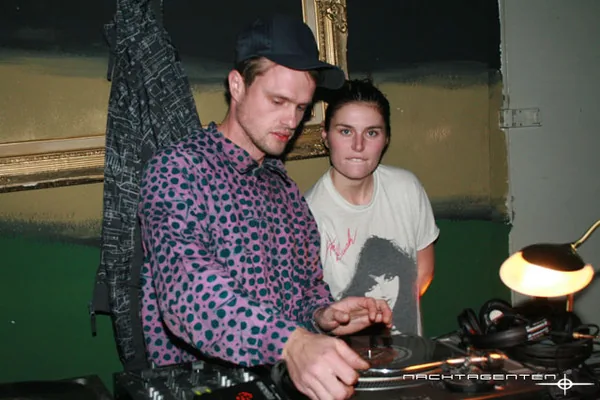
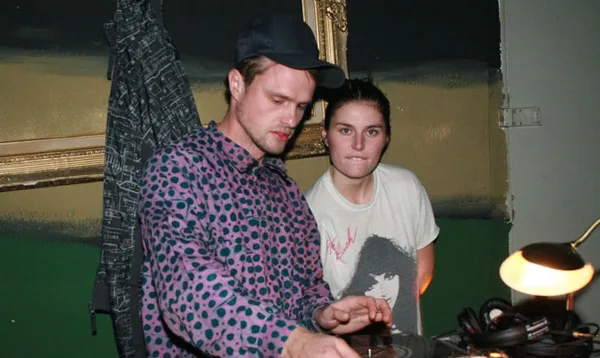
The Afterhour: Foto ohne Wasserzeichen

diff --git a/label.html b/label.html
@@ -202,7 +202,7 @@
   </dialog>
 
   <script type="application/json" id="release-data">{"obruni-antwi":{"id":"obruni-antwi","kind":"artist","name":"Obruni Antwi","role":"Cover-Künstlerin","roleEn":"Cover artist","bio":["Obruni Antwi ist freie Künstlerin aus Berlin, geboren in Schwerin und Mitglied im VbK Berlin. Ihre Laufbahn begann in der DDR als Textildesignerin, außerdem war sie Leiterin einer Werkstatt. Aus der DDR kam sie nach West-Berlin und arbeitet seither als freie Künstlerin. Sie malt und arbeitet in vielen Techniken.","Alle Cover auf dieser Seite stammen von ihr. Sie entstanden zwischen 2011 und 2014 mit Microsoft Paint, in ihrer digitalen Phase. 4Spur Records bedankt sich bei der Künstlerin, dass sie ihre Arbeiten als Cover zur Verfügung gestellt hat."],"bioEn":["Obruni Antwi is a freelance artist from Berlin, born in Schwerin and a member of VbK Berlin. Her career began in the GDR as a textile designer, and she also ran a workshop. She came from the GDR to West Berlin and has worked as a freelance artist ever since. She paints and works in many techniques.","All covers on this page are by her. They were made between 2011 and 2014 with Microsoft Paint, during her digital phase. 4Spur Records thanks the artist for making her works available as covers."],"links":[["X","https://x.com/ObruniAntwi"],["oncyber","https://oncyber.io/rubadubsundays"]],"image":"img/artists/obruni-antwi-full-960.webp","imageSmall":"img/artists/obruni-antwi-full-480.webp"},"7018769":{"id":"7018769","title":"AUGENLIED","artist":"Ete & Ali","date":"2026-09-13","format":"Single","cover":[320,640,960,1440],"links":{"apple":"https://music.apple.com/de/album/augenlied-single/6810388041","spotify":"https://open.spotify.com/album/1AOdwvLBbswHBB9LYHOUOH"},"art":"#oban_1204242","cline":"2026 4Spur Records","description":"Ein dunkles Dub-Stück, digital produziert mit MPC, 808 und Juno, getragen von weiten Delay-Räumen.","descriptionEn":"A dark dub piece, produced digitally with MPC, 808 and Juno, carried by wide delay spaces."},"7004136":{"id":"7004136","title":"Olga Mein Herz","artist":"KiKi4EWA","date":"2026-09-09","format":"Single","cover":[320,640,960,1440],"links":{"apple":"https://music.apple.com/de/album/olga-mein-herz-single/6807667693","spotify":"https://open.spotify.com/album/649LD7GoTYvbrzCXUDzc3d"},"art":"#oban_12022310","cline":"2026 4Spur Records","description":"Zwei Mbira-Stücke, die wie ein Gedicht als Haiku geschrieben sind.","descriptionEn":"Two mbira pieces written as a haiku, like a poem."},"6583184":{"id":"6583184","title":"NK44","artist":"KiKi4EWA","feat":"KingAli 030","date":"2026-07-19","format":"Single","cover":[320,640,960,1440],"links":{"apple":"https://music.apple.com/de/album/nk44-feat-kingali-030-single/6783938315","spotify":"https://open.spotify.com/album/6e6O2id7xkwFCSh92RGHrP"},"art":"#oban_1111032","cline":"2026 4Spur Records","description":"NK44 steht für Neukölln 44, den Ort, an dem die Stücke entstanden sind. Pannier, Donau und Ecke Reuter sind die drei Straßen, die dort zusammenkommen; die drei Tracks greifen sie auf und geben jeder ihren eigenen Vibe.","descriptionEn":"NK44 stands for Neukölln 44, the place where the pieces were made. Pannier, Donau and Ecke Reuter are the three streets that meet there; the three tracks take them up and give each its own vibe."},"6564352":{"id":"6564352","title":"DUB du PHONK","artist":"KiKi4EWA","date":"2026-07-19","format":"Single","cover":[320,640,960,1440],"links":{"apple":"https://music.apple.com/de/album/dub-du-phonk-single/6781570641","spotify":"https://open.spotify.com/album/6YzDKBMbMkcyRicdmtoRsm"},"art":"#oban_1110241","cline":"2026 4Spur Records","description":"Ein digitales Dub-Stück, das Phonk-Elemente verbindet. Eine Mbira spielt mit.","descriptionEn":"A digital dub piece that blends phonk elements, with a mbira playing along."},"6563692":{"id":"6563692","title":"JERRY - EP","artist":"Ete & Ali","date":"2026-07-19","format":"EP","cover":[320,640,960,1440],"links":{"apple":"https://music.apple.com/de/album/jerry-ep/6777901433","spotify":"https://open.spotify.com/album/0seVNwtVfGYK54JgYh5h00"},"art":"#oban_1112091","cline":"2026 4Spur Records","description":"Eine musikalische Reise mit viel Spielfreude, 808s und funkigen Synthesizern.","descriptionEn":"A musical journey full of playfulness, 808s and funky synthesizers."},"6563697":{"id":"6563697","title":"Blaue Lichter","artist":"Ete & Ali","date":"2026-06-21","format":"Single","cover":[320,640,960,1440],"links":{"apple":"https://music.apple.com/de/album/blaue-lichter-single/6781570779","spotify":"https://open.spotify.com/album/5YBUaUAcHD5snCOgpqrKRO"},"art":"#oban_1204246","cline":"2026 4Spur Records"},"6563658":{"id":"6563658","title":"1Kopf","artist":"Ete & Ali","date":"2026-06-21","format":"Single","cover":[320,640,960,1440],"links":{"apple":"https://music.apple.com/de/album/1kopf-single/6777971003","spotify":"https://open.spotify.com/album/6ufIaxwMYulK2ZGv1NrORn"},"art":"#oban_1111113","cline":"2026 4Spur Records"},"6500088":{"id":"6500088","title":"Machen Was Sie Wollen (Rap)","artist":"Eli#","feat":"Ete & Ali","date":"2026-06-01","format":"Single","cover":[320,640,960,1440],"links":{"apple":"https://music.apple.com/de/album/machen-was-sie-wollen-rap-feat-ete-ali-single/1896220849","spotify":"https://open.spotify.com/album/4m90eqfnF2hn40nyB1aEeJ"},"art":"#oban_1206125","cline":"2026 4Spur Records","description":"Ein Freestyle von Eli und ihrem Papa.","descriptionEn":"A freestyle by Eli and her dad."},"5806400":{"id":"5806400","title":"LiQUiDROM","artist":"KiKi4EWA","feat":"KingAli 030","date":"2025-04-17","format":"Single","cover":[320,640,960,1440],"links":{"apple":"https://music.apple.com/de/album/liquidrom-feat-kingali-030-single/1801595619","spotify":"https://open.spotify.com/album/7JRjux3aD5cywnmEr4bVPs"},"art":"#oban_12022910","cline":"2025 4Spur Records","description":"Inspiriert von da.","descriptionEn":"Inspired by that."},"4882157":{"id":"4882157","title":"Gib mir Xukah","artist":"Ete & Ali","date":"2024-04-20","format":"Single","cover":[320,640,960,1440],"links":{"apple":"https://music.apple.com/de/album/gib-mir-xukah-single/1737715446","spotify":"https://open.spotify.com/album/0u2ehwAnfATEynUCadXaw6"},"artBy":"Daniel Matysiak","cline":"2024 4Spur Records"},"4882087":{"id":"4882087","title":"Obruni's Fear","artist":"KiKi4EWA","feat":"KingAli 030","date":"2024-04-20","format":"Single","cover":[320,640,960,1440],"links":{"apple":"https://music.apple.com/de/album/obrunis-fear-feat-kingali-030-single/1741280608","spotify":"https://open.spotify.com/album/7wbnArdYLsndgcQsbUmOKf"},"art":"#oban_1111245","cline":"2024 4Spur Records"},"4551170":{"id":"4551170","title":"Your Eyes so Bright","artist":"Kaia Avéh","date":"2024-03-01","format":"Single","cover":[320,640,960,1440],"links":{"apple":"https://music.apple.com/de/album/your-eyes-so-bright-single/1724515204","spotify":"https://open.spotify.com/album/1KsQSsdnPki36dquk6q3tf"},"art":"#oban_1201187","cline":"2024 4Spur Records"},"4785129":{"id":"4785129","title":"Your Eyes so Bright (Sped Up)","artist":"Kaia Avéh","date":"2024-02-02","format":"Single","cover":[320,640,960,1440],"links":{"apple":"https://music.apple.com/de/album/your-eyes-so-bright-sped-up-single/1724514993","spotify":"https://open.spotify.com/album/1Fv1LDgyd73gPva9GQjaKI"},"art":"#oban_1203122","cline":"2024 4Spur Records"},"4742850":{"id":"4742850","title":"Baumhaus","artist":"Ete & Ali","feat":"KiKi4EWA","date":"2023-12-29","format":"Single","cover":[320,640,960,1440],"links":{"apple":"https://music.apple.com/de/album/baumhaus-feat-kiki4ewa-single/1718494535","spotify":"https://open.spotify.com/album/7JxgTE54bPYO5JNr41sRse"},"art":"#oban_1111036","cline":"2024 4Spur Records"},"4742259":{"id":"4742259","title":"Bye Baye Fail","artist":"Bass Juicey 808, KiKi4EWA","feat":"HASIBOI","date":"2023-12-24","format":"EP","cover":[320,640,960,1440],"links":{"apple":"https://music.apple.com/de/album/bye-baye-fail-feat-hasiboi-ep/1729278579","spotify":"https://open.spotify.com/album/7JEgfp1Li4heU4Ol8B10e7"},"art":"#oban_1201133","cline":"2024 4Spur Records"},"4358344":{"id":"4358344","title":"Wagmi Vibe, Pt. 4","artist":"KiKi4EWA, Bass Juicey 808","date":"2023-04-01","format":"Single","cover":[320,640,960,1440],"links":{"apple":"https://music.apple.com/de/album/wagmi-vibe-pt-4-single/1677503320","spotify":"https://open.spotify.com/album/6j4FhcooMgoXGmmkAalbnV"},"art":"#oban_1111225","cline":"2023 4Spur Records"},"4250726":{"id":"4250726","title":"Rub a Dub Sundays No. 3","artist":"Ete & Ali","date":"2023-01-27","format":"EP","cover":[320,640,960,1440],"links":{"apple":"https://music.apple.com/de/album/rub-a-dub-sundays-no-3-ep/1662328067","spotify":"https://open.spotify.com/album/4brr32rI5mhmO3wrAO3DOC"},"art":"#oban_n77","cline":"2023 4Spur Records"},"4220638":{"id":"4220638","title":"Rub a Dub Sundays No. 2","artist":"Ete & Ali","date":"2023-01-04","format":"EP","cover":[320,640,960,1440],"links":{"apple":"https://music.apple.com/de/album/rub-a-dub-sundays-no-2-feat-grime-dub-soundsystem-single/1662327305","spotify":"https://open.spotify.com/album/2LBIbWEW3BSoWyHpdjeJ9H"},"art":"#oban_1202299","cline":"2023 4Spur Records"},"4219072":{"id":"4219072","title":"Rub a Dub Sundays","artist":"Ete & Ali","date":"2022-12-23","format":"Single","cover":[320,640,960,1440],"links":{"apple":"https://music.apple.com/de/album/rub-a-dub-sundays-no-3-ep/1662328067","spotify":"https://open.spotify.com/album/0aRoLg6fu5VRXrSij1eA44"},"art":"#oban_1202289","cline":"2022 4Spur Records"},"4164003":{"id":"4164003","title":"Afro Rave","artist":"Bass Juicey 808","feat":"KiKi4EWA","date":"2022-12-04","format":"EP","cover":[320,640,960,1440],"links":{"apple":"https://music.apple.com/de/album/afro-rave-feat-kiki4ewa-single/1655633679","spotify":"https://open.spotify.com/album/1nQhqHU3GknHqfgYxR6o0c"},"art":"#oban_1203073","cline":"2022 4Spur Records"},"4185847":{"id":"4185847","title":"Obruni's Cave","artist":"KiKi4EWA","feat":"Bass Juicey 808","date":"2022-11-25","format":"EP","cover":[320,640,960,1440],"links":{"apple":"https://music.apple.com/de/album/obrunis-cave-feat-bass-juicey-808-ep/1654137901","spotify":"https://open.spotify.com/album/2OCAiL910MR0AB0gTHos0e"},"art":"#oban_k47","cline":"2022 4Spur Records"},"3873579":{"id":"3873579","title":"Wagmi Vibe, Pt. 3","artist":"KiKi4EWA","feat":"KingAli 030","date":"2022-06-17","format":"Single","cover":[320,640,960,1440],"links":{"apple":"https://music.apple.com/de/album/wagmi-vibe-pt-3-feat-kingali-030-single/1630638129","spotify":"https://open.spotify.com/album/0TOTxQqBbCjhCnCctCmAyG"},"art":"#oban_11111712","cline":"2022 4Spur Records"},"3457928":{"id":"3457928","title":"Tears (Love Ain't That Way)","artist":"Debbie Parker inc.","date":"2022-04-01","format":"Album","cover":[320,640,960,1440],"links":{"apple":"https://music.apple.com/de/album/tears-love-aint-that-way/1611143448","spotify":"https://open.spotify.com/album/3KxmcZcouFoOis7WH01rBp"},"artBy":"Daniel Matysiak","cline":"2022 4Spur Records"},"3648357":{"id":"3648357","title":"Wagmi Vibe, Pt. 2","artist":"Bass Juicey 808","date":"2022-03-08","format":"EP","cover":[320,640,960,1440],"links":{"apple":"https://music.apple.com/de/album/wagmi-vibe-pt-2-ep/1611319939","spotify":"https://open.spotify.com/album/78QY8h6IdCmgQ0bxQgkjIE"},"art":"#oban_1111224","cline":"2022 4Spur Records"},"3648356":{"id":"3648356","title":"Wagmi Vibe, Pt. 1","artist":"Bass Juicey 808","date":"2022-03-08","format":"Single","cover":[320,640,960,1440],"links":{"apple":"https://music.apple.com/de/album/wagmi-vibe-pt-1-single/1611170160","spotify":"https://open.spotify.com/album/5bTfSbDD2P3qCIT0LjfqRG"},"art":"#oban_1201173","cline":"2022 4Spur Records"},"3648270":{"id":"3648270","title":"Wagmi Vibe (sketches)","artist":"Bass Juicey 808","feat":"KiKi4EWA","date":"2022-03-08","format":"EP","cover":[320,640,960,1440],"links":{"apple":"https://music.apple.com/de/album/wagmi-vibe-sketches-feat-kiki4ewa-ep/1611363253","spotify":"https://open.spotify.com/album/2N4XgR71LiMy5ElkensoeI"},"art":"#oban_1206052","cline":"2022 4Spur Records"},"3313630":{"id":"3313630","title":"Jeden Tag (2021 Quarantine Dub)","artist":"KiKi4EWA","date":"2021-04-17","format":"Single","cover":[320,640,960,1440],"links":{"apple":"https://music.apple.com/de/album/jeden-tag-2021-quarantine-dub-single/1561978793","spotify":"https://open.spotify.com/album/16AWizCRuKKlTkOCX3muxj"},"art":"#oban_1203013","cline":"2021 4Spur Records"},"2652978":{"id":"2652978","title":"Die Gedanken Sind Frei","artist":"Daniel Matysiak","feat":"Olga Lilly","date":"2019-09-09","format":"Single","cover":[320,640,960,1440],"links":{"apple":"https://music.apple.com/de/album/die-gedanken-sind-frei-feat-olga-lilly-single/1479317767","spotify":"https://open.spotify.com/album/0FGkj1AqAlKro5YQ2CnVPh"},"artBy":"Daniel Matysiak","cline":"2019 4Spur Records"},"2658350":{"id":"2658350","title":"NITE BERRY (Bokondi Dub)","artist":"KingAli 030","date":"2019-08-08","format":"Single","cover":[320,640,960,1440],"links":{"apple":"https://music.apple.com/de/album/nite-berry-bokondi-dub-single/1475729900","spotify":"https://open.spotify.com/album/5oJUGnppoxPk9ngbZrf5Dq"},"art":"#oban_n74","cline":"2019 4Spur Records"},"2658347":{"id":"2658347","title":"The Yellow King","artist":"Kingali 030","date":"2019-08-08","format":"Single","cover":[320,640,960,1440],"links":{"apple":"https://music.apple.com/de/album/the-yellow-king-single/1477121958","spotify":"https://open.spotify.com/album/0S70qNoC5Aga7cOwkfWgMe"},"art":"#oban_1111226","cline":"2019 4Spur Records"},"2658352":{"id":"2658352","title":"Im Wald","artist":"Dr. OmniChord","feat":"Kaia Avéh","date":"2019-08-01","format":"Single","cover":[320,640,960,1440],"links":{"apple":"https://music.apple.com/de/album/im-wald-feat-kaia-av%C3%A9h-single/1477537622","spotify":"https://open.spotify.com/album/0frC5hQsHOdxAVpweVHUTq"},"artBy":"Daniel Matysiak","cline":"2019 4Spur Records"},"2621752":{"id":"2621752","title":"The Lost Tapes","artist":"Debbie Parker INC.","date":"2019-05-31","format":"Single","cover":[320,640,960,1440],"links":{"apple":"https://music.apple.com/de/album/the-lost-tapes-ep/1463460693","spotify":"https://open.spotify.com/album/6OblrY2HsAbHJpVXQJUqEo"},"artBy":"Daniel Matysiak","cline":"2019 4Spur Records"},"2622094":{"id":"2622094","title":"Lost Riddim","artist":"The Afterhour","feat":"Seth Deeken, Nina Asseng, Daniel Matysiak","date":"2019-05-24","format":"Single","cover":[320,640,960,1440],"links":{"apple":"https://music.apple.com/de/album/lost-riddim-feat-seth-deeken-nina-asseng-daniel-matysiak/1463487364","spotify":"https://open.spotify.com/album/4RRbqxpotQ6jzBuCGifcqN"},"artBy":"Daniel Matysiak","cline":"2019 4Spur Records"},"2582408":{"id":"2582408","title":"Aurora's Mood","artist":"The Afterhour","feat":"KingAli 030","date":"2019-05-03","format":"Single","cover":[320,640,960,1440],"links":{"apple":"https://music.apple.com/de/album/auroras-mood-feat-kingali-030-single/1460550405","spotify":"https://open.spotify.com/album/5fMTHidoriZJYeIvB4XzaM"},"art":"#oban_1203213","cline":"2019 4Spur Records"},"2582797":{"id":"2582797","title":"Protect Me","artist":"The Afterhour","feat":"KingAli 030","date":"2019-03-08","format":"Single","cover":[320,640,960,1440],"links":{"apple":"https://music.apple.com/de/album/protect-me-feat-kingali-030-single/1454249559","spotify":"https://open.spotify.com/album/5nHhSnchcCVDs68IBOckjM"},"art":"#oban_299115","cline":"2019 4Spur Records"},"2582371":{"id":"2582371","title":"Crystal Ship","artist":"The Afterhour","date":"2019-03-08","format":"Single","cover":[320,640,960,1440],"links":{"apple":"https://music.apple.com/de/album/crystal-ship-single/1454249989","spotify":"https://open.spotify.com/album/4EXmGSmQo732pVY6SCz9DV"},"art":"#oban_k12","cline":"2019 4Spur Records"},"2547314":{"id":"2547314","title":"Daylight","artist":"The Afterhour","date":"2019-01-18","format":"Single","cover":[320,640,960,1440],"links":{"apple":"https://music.apple.com/de/album/daylight-single/1448754879","spotify":"https://open.spotify.com/album/0QpQMagxQE5hRqAjcJmQHg"},"art":"#oban_n78","cline":"2019 4Spur Records"},"2546880":{"id":"2546880","title":"The Chase","artist":"KiKi4EWA","date":"2019-01-11","format":"Single","cover":[320,640,960,1440],"links":{"apple":"https://music.apple.com/de/album/the-chase-single/1448375735","spotify":"https://open.spotify.com/album/7pI8auscm1d7AcsFbK4u2C"},"art":"#oban_1202292","cline":"2018 4Spur Records"},"2545874":{"id":"2545874","title":"Mombasa","artist":"KingAli 030","date":"2019-01-11","format":"Single","cover":[320,640,960,1440],"links":{"apple":"https://music.apple.com/de/album/mombasa-single/1448376275","spotify":"https://open.spotify.com/album/0UM8c5JxukIedhMDWZxHAw"},"art":"#oban_1111283","cline":"2018 4Spur Records"},"2545750":{"id":"2545750","title":"Monday Blizzard","artist":"KiKi4EWA","date":"2019-01-04","format":"Single","cover":[320,640,960,1440],"links":{"apple":"https://music.apple.com/de/album/monday-blizzard-single/1448760380","spotify":"https://open.spotify.com/album/5BR497R0LObu08f6m1xV0z"},"art":"#oban_11110311","cline":"2018 4Spur Records"},"2544479":{"id":"2544479","title":"Waiting for Ticks","artist":"Mad Mountain Berlin","date":"2019-01-04","format":"Album","cover":[320,640,960,1440],"links":{"apple":"https://music.apple.com/de/album/waiting-for-ticks/1448761801","spotify":"https://open.spotify.com/album/2fn2cOVBV8FUuX1SKK1wcB"},"artBy":"Daniel Matysiak","cline":"2018 4Spur Records"},"2544376":{"id":"2544376","title":"The Road","artist":"KiKi4EWA","date":"2019-01-04","format":"EP","cover":[320,640,960,1440],"links":{"apple":"https://music.apple.com/de/album/the-road/1449334936","spotify":"https://open.spotify.com/album/0gtW02sDiqaxktzz3qZHh0"},"art":"#oban_1111033","cline":"2019 4Spur Records"},"2541175":{"id":"2541175","title":"Vicious Circle","artist":"TrapHole, Kingali 030","date":"2018-12-28","format":"EP","cover":[320,640,960,1440],"links":{"apple":"https://music.apple.com/de/album/vicious-circle/1447643585","spotify":"https://open.spotify.com/album/7oUi8jy9b564IOjD371TKo"},"art":"#oban_vielequadrate","cline":"2018 4Spur Records"},"2530963":{"id":"2530963","title":"Tunka Tun Ka","artist":"Kingali 030","date":"2018-12-06","format":"Single","links":{"apple":"https://music.apple.com/de/album/tunka-tun-ka-single/1445872417","spotify":"https://open.spotify.com/album/285PeSebvEjz2ZePjQUD9S"},"cline":"2018 4Spur Records"},"2530958":{"id":"2530958","title":"Kinshasa","artist":"KingAli 030","date":"2018-12-06","format":"Single","cover":[320,640,960,1440],"links":{"apple":"https://music.apple.com/de/album/kinshasa-single/1445945878","spotify":"https://open.spotify.com/album/1I7mLkABzLRs3qFXjEr1iv"},"art":"#oban_1202286","cline":"2017 4Spur Records"},"2515398":{"id":"2515398","title":"All Good","artist":"Ete & Ali","date":"2018-11-23","format":"EP","cover":[320,640,960,1440],"links":{"apple":"https://music.apple.com/de/album/all-good/1443552944","spotify":"https://open.spotify.com/album/08u8LIeov3QE8G0iwX139Q"},"artBy":"Daniel Matysiak","cline":"2006 4Spur Records"},"2494563":{"id":"2494563","title":"Congo at Nite","artist":"KingAli 030","date":"2018-11-09","format":"Single","cover":[320,640,960,1440],"links":{"apple":"https://music.apple.com/de/album/congo-at-nite-single/1441146479","spotify":"https://open.spotify.com/album/3IQ8GvSspRlTo4US2bmtm5"},"art":"#oban_1202201","cline":"2018 4Spur Records"},"2495668":{"id":"2495668","title":"Ciclo de Mexico EP","artist":"KingAli 030","date":"2018-11-04","format":"EP","links":{"apple":"https://music.apple.com/de/album/ciclo-de-mexico-ep/1441308306","spotify":"https://open.spotify.com/album/5ugVud6zmDfCWkO6TTSfvf"},"cline":"2018 4Spur Records"},"2215975":{"id":"2215975","title":"Birds","artist":"Debbie Parker iNC.","date":"2016-10-28","format":"Single","links":{"spotify":"https://open.spotify.com/album/2FBlDsvev3KvozbNTFBmJL"},"cline":"2016 4Spur Records"},"2215976":{"id":"2215976","title":"Grime & Dub","artist":"Bullit Berlin","date":"2006-08-17","format":"EP","links":{"apple":"https://music.apple.com/de/album/grime-dub-ep/182852368","spotify":"https://open.spotify.com/album/1CTCgoGtLI6KAz7SiwNrsJ"},"cline":"2006 4Spur Records"}}</script>
-  <script type="application/json" id="artist-data">[{"slug":"bass-juicey-808","name":"Bass Juicey 808","count":7},{"slug":"bullit-berlin","name":"Bullit Berlin","count":1},{"slug":"daniel-matysiak","name":"Daniel Matysiak","count":2},{"slug":"debbie-parker-inc","name":"Debbie Parker INC.","count":3},{"slug":"dr-omnichord","name":"Dr. OmniChord","count":1},{"slug":"eli","name":"Eli#","count":1},{"slug":"ete-ali","name":"Ete & Ali","bio":"Ete & Ali sind ein Produzenten-Duo aus Berlin und machen seit über 15 Jahren elektronische Musik im Underground. In der Grime-Dub-Szene gelten sie als Legenden. Ihr Sound ist roh, tief und eigen. Das Duo vereint das Wissen eines Toningenieurs und eines Architekten, bei ihnen gehen Präzision und Kreativität zusammen. Sie produzieren eigene Tracks und bauen Klanglandschaften für andere Künstler. Ihr Markenzeichen sind schwere 808s. Jeder Beat erzählt eine Geschichte, jeder Drop sitzt mit Absicht. In Berlin geboren, im Underground zu Hause.","bioEn":"Ete & Ali are a producer duo from Berlin, making electronic music in the underground for more than 15 years. In the grime dub scene they count as legends. Their sound is raw, deep and their own. The duo combines the know-how of a sound engineer and an architect, so precision and creativity go together. They produce their own tracks and build soundscapes for other artists. Their trademark is heavy 808s. Every beat tells a story, every drop is placed on purpose. Born in Berlin, at home in the underground.","spotify":"https://open.spotify.com/artist/3lyODynf2DRlfDfpwVOJ0v","photo":{"s":"img/artists/ete-ali-photo-900.webp","l":"img/artists/ete-ali-photo-1600.webp","sw":900,"lw":1600,"w":1955,"h":1322},"photoAlt":"Ete & Ali im Studio","photoAltEn":"Ete & Ali in the studio","count":11},{"slug":"kaia-av-h","name":"Kaia Avéh","count":3},{"slug":"kiki4ewa","name":"KiKi4EWA","bio":"KiKi4EWA ist ein Künstler aus Berlin. Er verbindet Dub, Urban Sounds und afrikanische Einflüsse mit dem rauen Geist des Berliner Undergrounds. Sein Sound kombiniert analoge Tiefe mit digitaler Präzision: ungeschönt, kraftvoll und eigen. Tiefer Bass, markante Synths und scharfe Drum-Grooves prägen seine Produktionen, im Club genauso wie auf Kopfhörern. Die Bilder von Obruni Antwi gehören dazu und übersetzen den Vibe in Bildsprache.","bioEn":"KiKi4EWA is an artist from Berlin. He blends dub, urban sounds and Afro influences with the raw spirit of Berlin's underground. His sound combines analog depth with digital precision: unpolished, powerful and his own. Deep bass, distinctive synths and sharp drum grooves shape his productions, in the club as much as on headphones. The artwork by Obruni Antwi is part of it and turns the vibe into pictures.","spotify":"https://open.spotify.com/artist/17CMWAOhR9dAiNUkGM2mId","photo":{"s":"img/artists/kiki4ewa-photo-900.webp","l":"img/artists/kiki4ewa-photo-1600.webp","sw":900,"lw":1600,"w":2000,"h":1500},"photoAlt":"KiKi4EWA im Studio","photoAltEn":"KiKi4EWA in the studio","count":16},{"slug":"kingali-030","name":"KingAli 030","bio":"KingAli 030 ist ein Projekt mit Wurzeln in den späten Neunzigern. Es entstand aus dem Wunsch, Fantasie, Vorstellungskraft und Poesie freizulassen, ohne Ego und ohne feste Identität. Von Anfang an ging es darum, zu schaffen, ohne etwas festzuhalten, und die Arbeit für sich sprechen zu lassen. KingAli ist an kein Medium und kein Genre gebunden. Es ist mehr als Kunst oder Musik: eine Haltung, frei zu fühlen und zu leben. Von Berlin aus entstehen weiter Arbeiten, die berühren und in eine Welt einladen, in der Freiheit die einzige Regel ist.","bioEn":"KingAli 030 is a project with roots in the late nineties. It started from the wish to let imagination, fantasy and poetry run free, without ego and without a fixed identity. From the beginning the idea was to create without holding on, and to let the work speak for itself. KingAli is not tied to any medium or genre. It is more than art or music: a way of feeling and living freely. Based in Berlin, the project keeps making work that moves people and invites them into a world where freedom is the only rule.","spotify":"https://open.spotify.com/artist/51wv2fE1JQexgrMcyATxAX","photo":{"s":"img/artists/kingali-030-photo-590.webp","l":"img/artists/kingali-030-photo-590.webp","sw":590,"lw":590,"w":590,"h":528},"photoAlt":"Signatur von KingAli 030 auf einem Akai-Sampler","photoAltEn":"KingAli 030 signature on an Akai sampler","count":14},{"slug":"mad-mountain-berlin","name":"Mad Mountain Berlin","count":1},{"slug":"the-afterhour","name":"The Afterhour","bio":"The Afterhour ist eine lose Truppe für improvisierte Krautrock-Sessions im After-Hour-Kontext, im Berlin der 2000er Jahre. Entstanden ist das Projekt vor allem aus dem Wunsch, die Musik, die sie machen und leben, auch live zu spielen. Das hat die Crew jahrelang getan, auf Festivals und in Clubs.","bioEn":"The Afterhour is a loose crew for improvised krautrock sessions in the after-hours scene of 2000s Berlin. The project came about mainly from the wish to bring the music they make and live to the stage as well. The crew did exactly that for years, at festivals and in clubs.","photo":{"s":"img/artists/the-afterhour-photo-600.webp","l":"img/artists/the-afterhour-photo-600.webp","sw":600,"lw":600,"w":600,"h":400},"photoAlt":"The Afterhour","photoAltEn":"The Afterhour","count":5},{"slug":"traphole","name":"TrapHole","count":1}]</script>
+  <script type="application/json" id="artist-data">[{"slug":"bass-juicey-808","name":"Bass Juicey 808","count":7},{"slug":"bullit-berlin","name":"Bullit Berlin","count":1},{"slug":"daniel-matysiak","name":"Daniel Matysiak","count":2},{"slug":"debbie-parker-inc","name":"Debbie Parker INC.","count":3},{"slug":"dr-omnichord","name":"Dr. OmniChord","count":1},{"slug":"eli","name":"Eli#","count":1},{"slug":"ete-ali","name":"Ete & Ali","bio":"Ete & Ali sind ein Produzenten-Duo aus Berlin und machen seit über 15 Jahren elektronische Musik im Underground. In der Grime-Dub-Szene gelten sie als Legenden. Ihr Sound ist roh, tief und eigen. Das Duo vereint das Wissen eines Toningenieurs und eines Architekten, bei ihnen gehen Präzision und Kreativität zusammen. Sie produzieren eigene Tracks und bauen Klanglandschaften für andere Künstler. Ihr Markenzeichen sind schwere 808s. Jeder Beat erzählt eine Geschichte, jeder Drop sitzt mit Absicht. In Berlin geboren, im Underground zu Hause.","bioEn":"Ete & Ali are a producer duo from Berlin, making electronic music in the underground for more than 15 years. In the grime dub scene they count as legends. Their sound is raw, deep and their own. The duo combines the know-how of a sound engineer and an architect, so precision and creativity go together. They produce their own tracks and build soundscapes for other artists. Their trademark is heavy 808s. Every beat tells a story, every drop is placed on purpose. Born in Berlin, at home in the underground.","spotify":"https://open.spotify.com/artist/3lyODynf2DRlfDfpwVOJ0v","photo":{"s":"img/artists/ete-ali-photo-900.webp","l":"img/artists/ete-ali-photo-1600.webp","sw":900,"lw":1600,"w":1955,"h":1322},"photoAlt":"Ete & Ali im Studio","photoAltEn":"Ete & Ali in the studio","count":11},{"slug":"kaia-av-h","name":"Kaia Avéh","count":3},{"slug":"kiki4ewa","name":"KiKi4EWA","bio":"KiKi4EWA ist ein Künstler aus Berlin. Er verbindet Dub, Urban Sounds und afrikanische Einflüsse mit dem rauen Geist des Berliner Undergrounds. Sein Sound kombiniert analoge Tiefe mit digitaler Präzision: ungeschönt, kraftvoll und eigen. Tiefer Bass, markante Synths und scharfe Drum-Grooves prägen seine Produktionen, im Club genauso wie auf Kopfhörern. Die Bilder von Obruni Antwi gehören dazu und übersetzen den Vibe in Bildsprache.","bioEn":"KiKi4EWA is an artist from Berlin. He blends dub, urban sounds and Afro influences with the raw spirit of Berlin's underground. His sound combines analog depth with digital precision: unpolished, powerful and his own. Deep bass, distinctive synths and sharp drum grooves shape his productions, in the club as much as on headphones. The artwork by Obruni Antwi is part of it and turns the vibe into pictures.","spotify":"https://open.spotify.com/artist/17CMWAOhR9dAiNUkGM2mId","photo":{"s":"img/artists/kiki4ewa-photo-900.webp","l":"img/artists/kiki4ewa-photo-1600.webp","sw":900,"lw":1600,"w":2000,"h":1500},"photoAlt":"KiKi4EWA im Studio","photoAltEn":"KiKi4EWA in the studio","count":16},{"slug":"kingali-030","name":"KingAli 030","bio":"KingAli 030 ist ein Projekt mit Wurzeln in den späten Neunzigern. Es entstand aus dem Wunsch, Fantasie, Vorstellungskraft und Poesie freizulassen, ohne Ego und ohne feste Identität. Von Anfang an ging es darum, zu schaffen, ohne etwas festzuhalten, und die Arbeit für sich sprechen zu lassen. KingAli ist an kein Medium und kein Genre gebunden. Es ist mehr als Kunst oder Musik: eine Haltung, frei zu fühlen und zu leben. Von Berlin aus entstehen weiter Arbeiten, die berühren und in eine Welt einladen, in der Freiheit die einzige Regel ist.","bioEn":"KingAli 030 is a project with roots in the late nineties. It started from the wish to let imagination, fantasy and poetry run free, without ego and without a fixed identity. From the beginning the idea was to create without holding on, and to let the work speak for itself. KingAli is not tied to any medium or genre. It is more than art or music: a way of feeling and living freely. Based in Berlin, the project keeps making work that moves people and invites them into a world where freedom is the only rule.","spotify":"https://open.spotify.com/artist/51wv2fE1JQexgrMcyATxAX","photo":{"s":"img/artists/kingali-030-photo-590.webp","l":"img/artists/kingali-030-photo-590.webp","sw":590,"lw":590,"w":590,"h":528},"photoAlt":"Signatur von KingAli 030 auf einem Akai-Sampler","photoAltEn":"KingAli 030 signature on an Akai sampler","count":14},{"slug":"mad-mountain-berlin","name":"Mad Mountain Berlin","count":1},{"slug":"the-afterhour","name":"The Afterhour","bio":"The Afterhour ist eine lose Truppe für improvisierte Krautrock-Sessions im After-Hour-Kontext, im Berlin der 2000er Jahre. Entstanden ist das Projekt vor allem aus dem Wunsch, die Musik, die sie machen und leben, auch live zu spielen. Das hat die Crew jahrelang getan, auf Festivals und in Clubs.","bioEn":"The Afterhour is a loose crew for improvised krautrock sessions in the after-hours scene of 2000s Berlin. The project came about mainly from the wish to bring the music they make and live to the stage as well. The crew did exactly that for years, at festivals and in clubs.","photo":{"s":"img/artists/the-afterhour-photo-600.webp","l":"img/artists/the-afterhour-photo-600.webp","sw":600,"lw":600,"w":600,"h":358},"photoAlt":"The Afterhour","photoAltEn":"The Afterhour","count":5},{"slug":"traphole","name":"TrapHole","count":1}]</script>
 
   <footer>
     <div class="footer-inner">
